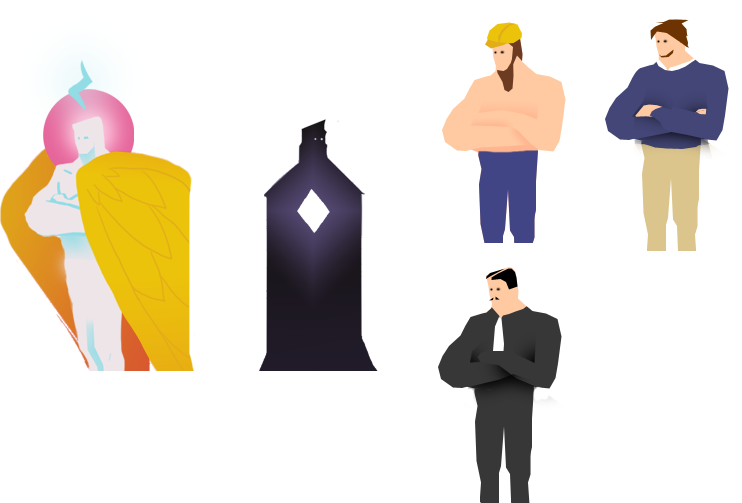
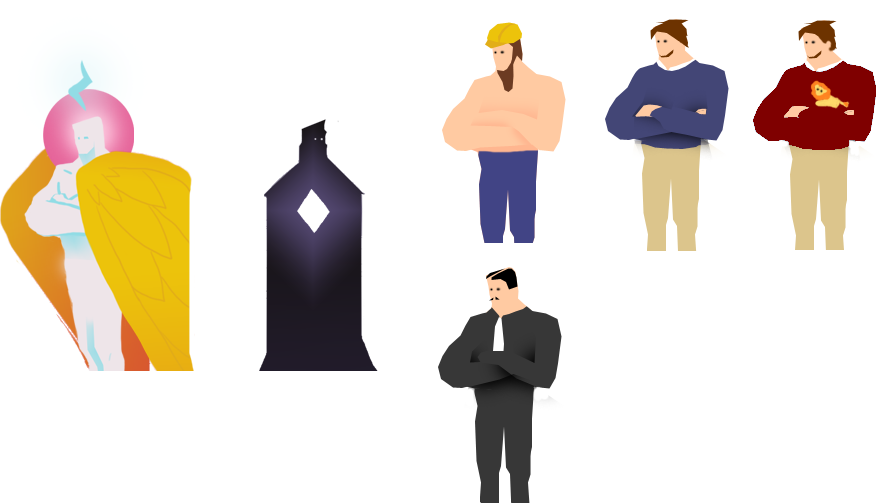
Changed humane guy look

diff --git a/index.bundle.js b/index.bundle.js
@@ -43089,7 +43089,7 @@ module.exports=
 		{
 			"id": "humane_society_guy",
 			"displayName": "Jason Helios",
-			"sprite": "normal_guy"
+			"sprite": "humane_guy"
 		},
 		{
 			"id": "player",
@@ -47530,7 +47530,7 @@ ConstructionScene.prototype.added = function()
 		action: "triggerConversation",
 		target: require("../data/johnson_xv_conversation.json")
 	})
-	var humaneGuy = this.createClickableSprite("normal_guy_sprite", -500, 300);
+	var humaneGuy = this.createClickableSprite("humane_guy_sprite", -500, 300);
 	humaneGuy.addAction({
 		action: "triggerConversation",
 		target: require("../data/humane_society_conversation.json")
@@ -48793,7 +48793,7 @@ module.exports =
 {
 	url: "media/general_atlas.png",
 	width: 3467,
-	height: 2619,
+	height: 2597,
 	filter: THREE.LinearFilter,
 	sprites:
 	{
@@ -48816,14 +48816,15 @@ module.exports =
 	"hammer":[1759,1562,60,60],
 	"heaven_angel":[820,1985,212,467],
 	"heaven_player":[1033,1985,196,297],
+	"humane_guy_sprite":[1385,1985,124,280],
 	"keydoor":[2377,863,544,862],
 	"labyrinth_sign":[1031,880,800,400],
-	"lamp":[767,2559,60,60],
+	"lamp":[828,2453,60,60],
 	"lamplarge":[2769,1726,300,734],
-	"magnets":[828,2453,60,60],
+	"magnets":[828,2514,60,60],
 	"moat_full":[0,0,1920,250],
 	"moat_hungry":[0,251,1920,250],
-	"normal_guy_sprite":[1385,1985,124,280],
+	"normal_guy_sprite":[1510,1985,124,280],
 	"outlet":[538,2196,61,83],
 	"pit_bridge":[0,502,1263,226],
 	"pit_edge":[1264,603,400,150],
@@ -48862,12 +48863,13 @@ module.exports =
 "characters":
 {
 	url: "media/characters_atlas.png",
-	width: 742,
+	width: 887,
 	height: 503,
 	filter: THREE.LinearFilter,
 	sprites:
 	{
 	"builder":[426,0,158,243],
+	"humane_guy":[742,0,144,250],
 	"johnson1":[0,0,212,371],
 	"normal_guy":[585,0,156,251],
 	"player":[213,0,212,371],

diff --git a/src/sdk/atlases/index.js b/src/sdk/atlases/index.js
@@ -10,7 +10,7 @@ module.exports =
 {
 	url: "media/general_atlas.png",
 	width: 3467,
-	height: 2619,
+	height: 2597,
 	filter: THREE.LinearFilter,
 	sprites:
 	{
@@ -33,14 +33,15 @@ module.exports =
 	"hammer":[1759,1562,60,60],
 	"heaven_angel":[820,1985,212,467],
 	"heaven_player":[1033,1985,196,297],
+	"humane_guy_sprite":[1385,1985,124,280],
 	"keydoor":[2377,863,544,862],
 	"labyrinth_sign":[1031,880,800,400],
-	"lamp":[767,2559,60,60],
+	"lamp":[828,2453,60,60],
 	"lamplarge":[2769,1726,300,734],
-	"magnets":[828,2453,60,60],
+	"magnets":[828,2514,60,60],
 	"moat_full":[0,0,1920,250],
 	"moat_hungry":[0,251,1920,250],
-	"normal_guy_sprite":[1385,1985,124,280],
+	"normal_guy_sprite":[1510,1985,124,280],
 	"outlet":[538,2196,61,83],
 	"pit_bridge":[0,502,1263,226],
 	"pit_edge":[1264,603,400,150],
@@ -79,12 +80,13 @@ module.exports =
 "characters":
 {
 	url: "media/characters_atlas.png",
-	width: 742,
+	width: 887,
 	height: 503,
 	filter: THREE.LinearFilter,
 	sprites:
 	{
 	"builder":[426,0,158,243],
+	"humane_guy":[742,0,144,250],
 	"johnson1":[0,0,212,371],
 	"normal_guy":[585,0,156,251],
 	"player":[213,0,212,371],

diff --git a/src/game/scene_past_construction.js b/src/game/scene_past_construction.js
@@ -22,7 +22,7 @@ ConstructionScene.prototype.added = function()
 		action: "triggerConversation",
 		target: require("../data/johnson_xv_conversation.json")
 	})
-	var humaneGuy = this.createClickableSprite("normal_guy_sprite", -500, 300);
+	var humaneGuy = this.createClickableSprite("humane_guy_sprite", -500, 300);
 	humaneGuy.addAction({
 		action: "triggerConversation",
 		target: require("../data/humane_society_conversation.json")
